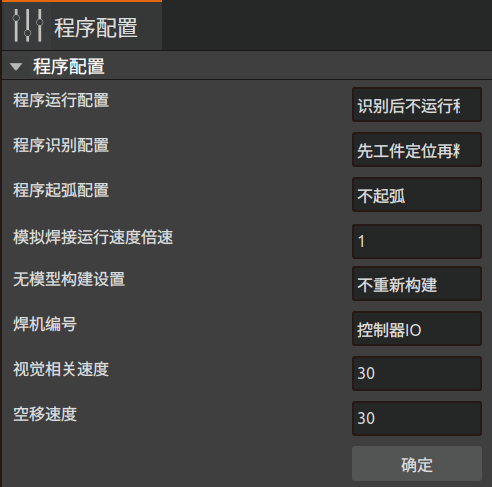
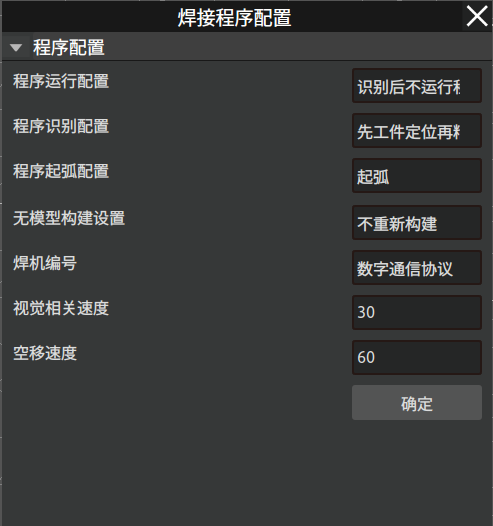
[20260331AIRLabV1.3.0中文手册平台文档更新]

diff --git a/source/manual/version.rst b/source/manual/version.rst
@@ -28,17 +28,23 @@
 
     说明：完善 SLAM 焊接功能
 
+- 优化柱塞工件粗定位功能；
+    路径：AIRLab软件解析->工程模块解析->工件定位
+
+    说明：完善 SLAM 焊接功能
+
 - 优化 IO 端口控制功能；
     路径：AIRLab软件解析->弹窗及其他页面->其他控制
 
     说明：增加 IO 口高低电平状态的显示
+
+- 优化焊接工艺功能。
+    路径：AIRLab软件解析->弹窗及其他页面->焊接工艺查询弹窗
+
+    说明：更新焊接工艺中部分参数的说明及使用方法
 
 - 优化 bin-picking 插件功能。
     路径：AIRLab软件解析->插件->bin-picking
 
     说明：完善bin-picking插件功能
 
-- 优化焊接工艺功能。
-    路径：AIRLab软件解析->弹窗及其他页面->焊接工艺查询弹窗
-
-    说明：更新焊接工艺中部分参数的说明及使用方法